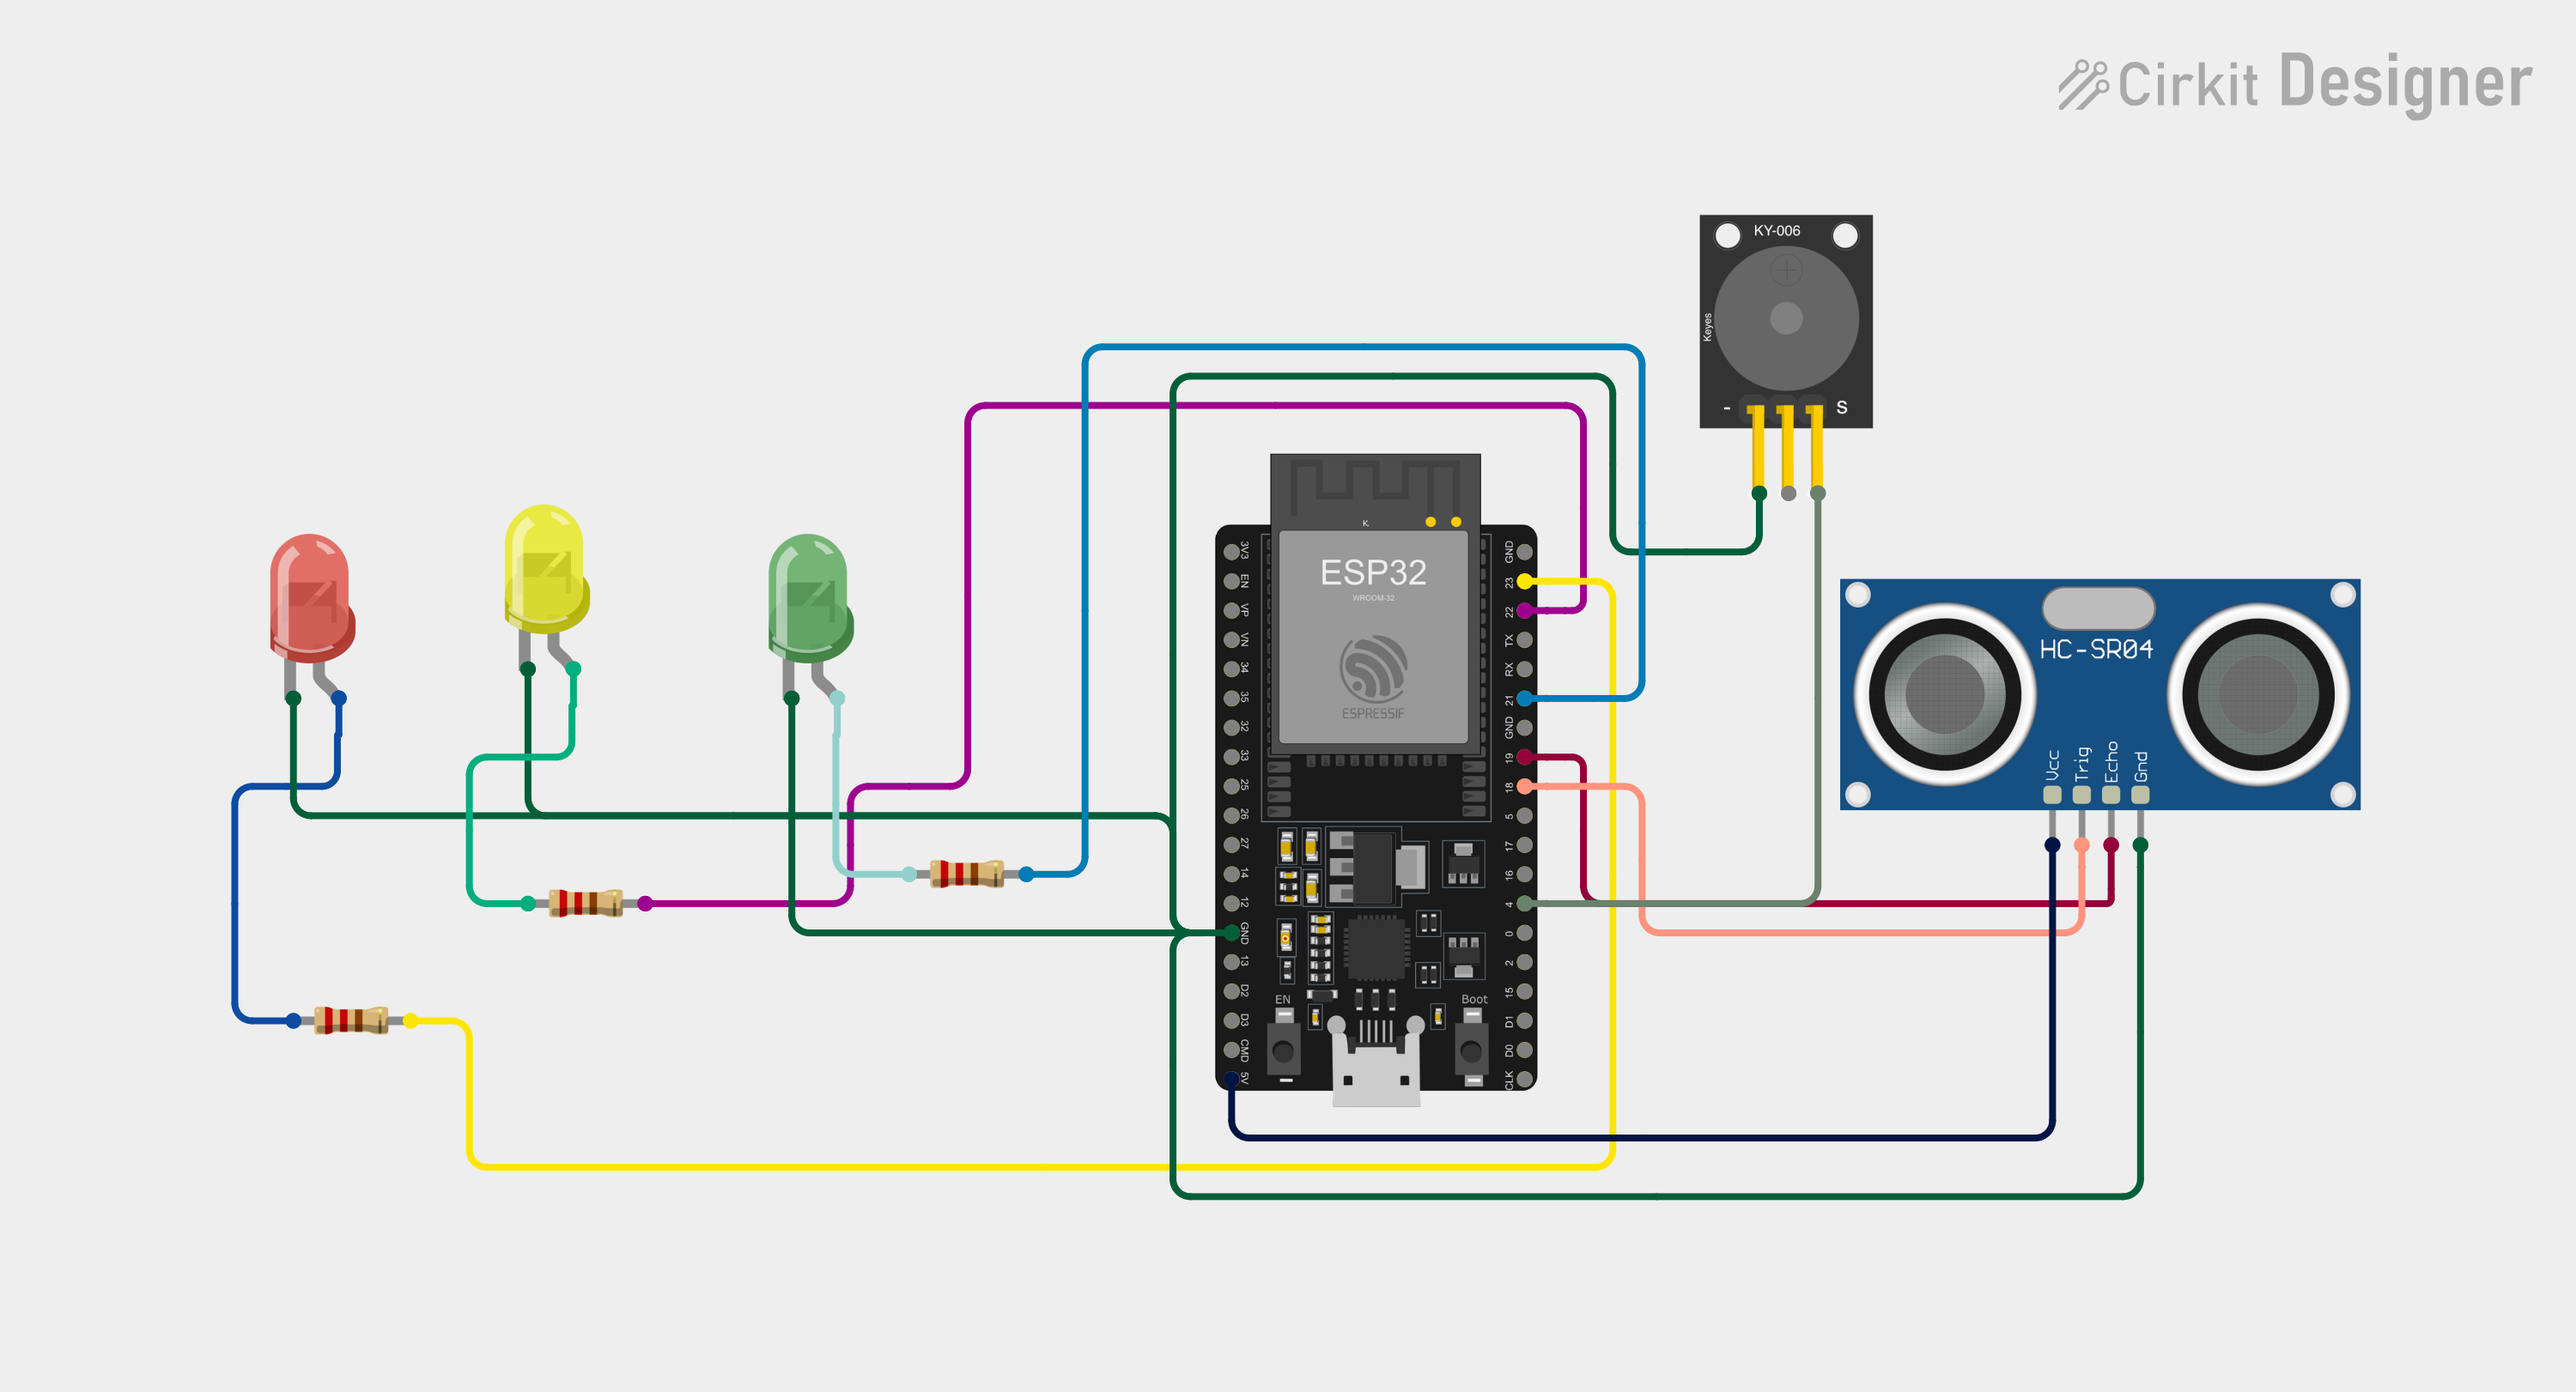
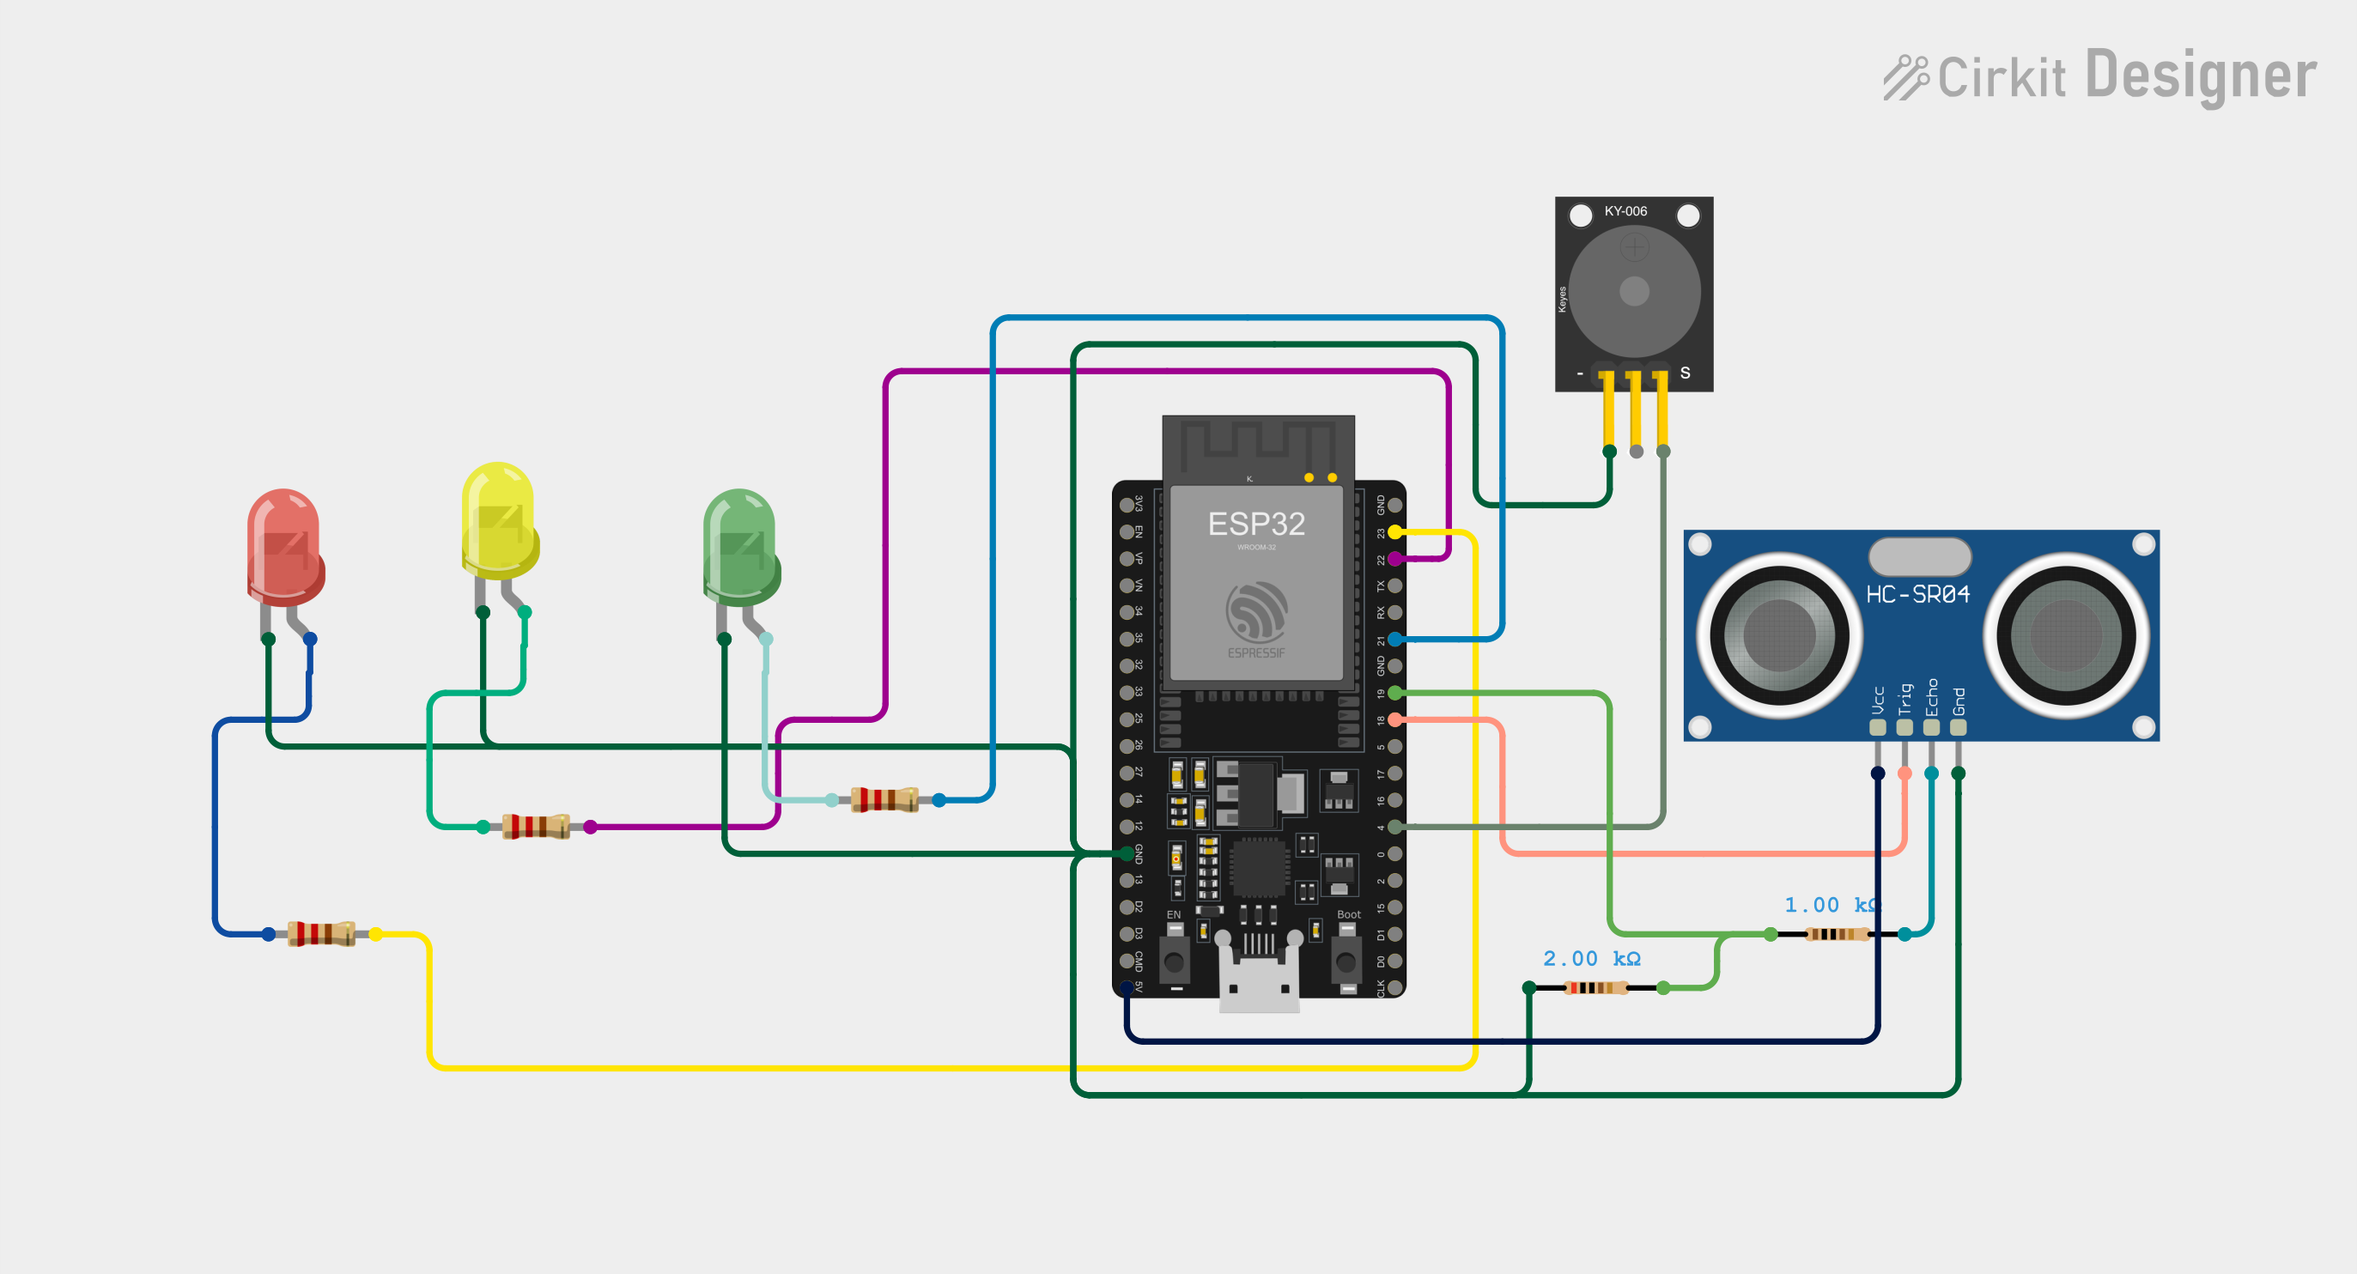
adding voltage divider

Changed region(s): [[0.6193, 0.5889, 0.8361, 0.8679], [0.5883, 0.527, 0.6812, 0.6509], [0.3406, 0.558, 0.3716, 0.5889]]

diff --git a/README.md b/README.md
@@ -1,7 +1,7 @@
 # Parking-sensor-esp32
 
 ## Bill of Materials
-The project needs an esp32 (ESP32-WROOM-32),  HW-508 passive buzzer, a HC-SR04 ultrasonic sensor, 3 LEDs (green, yellow, red), 3 resistors, breadboard and jumper wires.
+The project needs an esp32 (ESP32-WROOM-32),  HW-508 passive buzzer, a HC-SR04 ultrasonic sensor*, 3 LEDs (green, yellow, red), 3 resistors, breadboard and jumper wires.
 No soldering needed.
 
 
@@ -17,6 +17,8 @@ Yellow LED:         Anode -> Resisitor -> Pin 22
 
 Red LED:            Anode -> Resisitor -> Pin 23
                     Cathode -> GND
+
+*For standard HC-SR04 ultrasonic sensor connect a 1k ohm resistor in series from Echo to Esp32 pin and a 2k ohm resistor from the Esp32 pin to Gnd (for dividing 5V input voltage to safe 3.3V).
 
 Ultrasonic sensor:  Vcc -> VIN
                     Trig -> Pin 18
